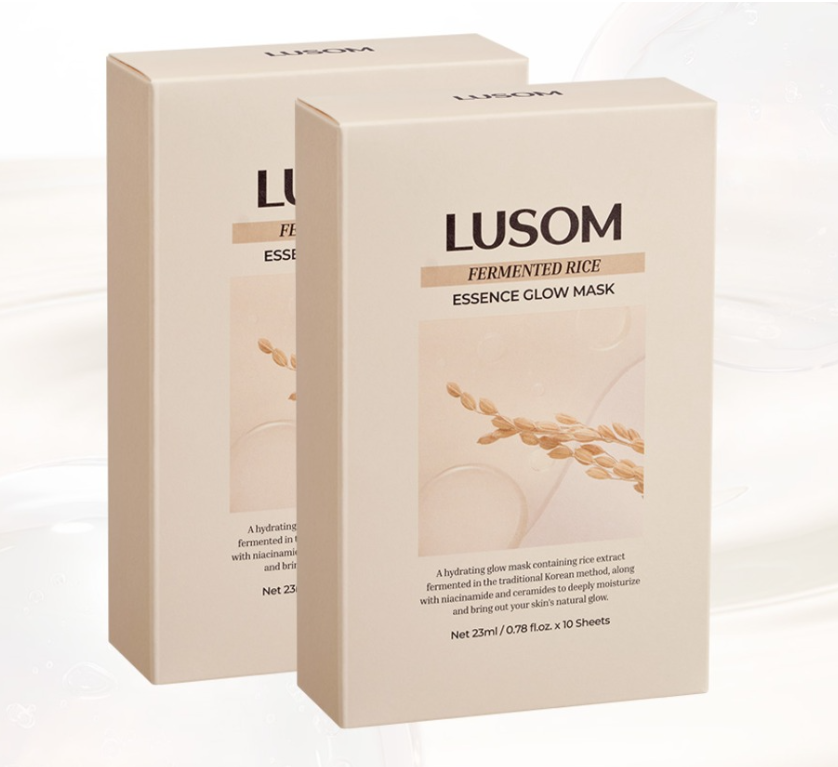
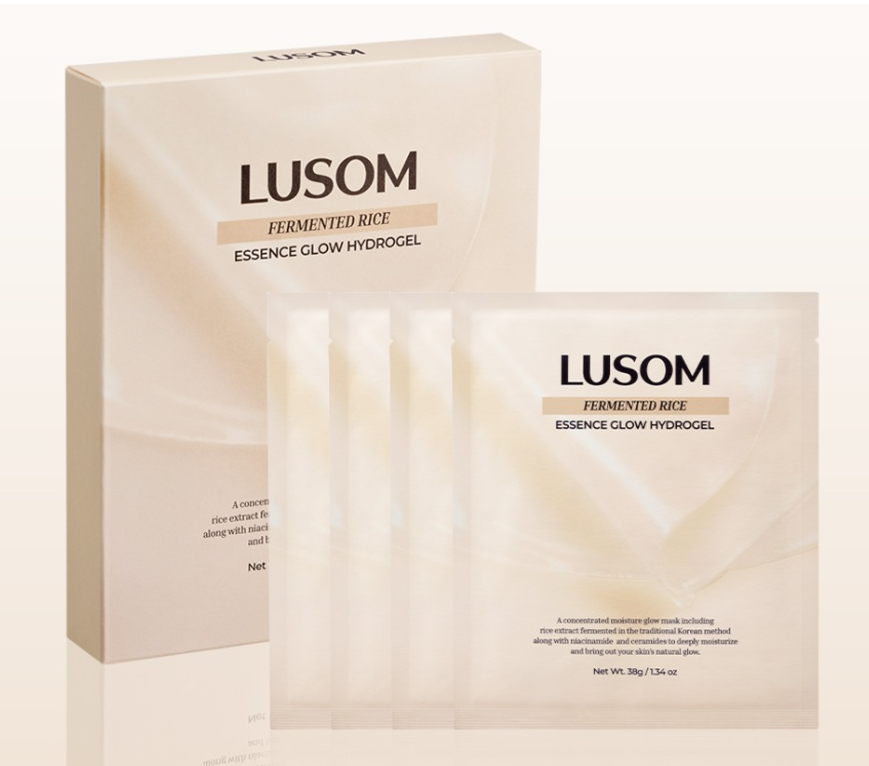
제공 제품 사진/이름/링크 교체 및 브랜드 소개 사진 교체
- 제공 제품 사진을 신규 제품사진으로 교체 (image/product.png)
- 제품명: 루솜 발효미 에센스 글로우 마스크 → 발효미 에센스 글로우 하이드로겔
- 제품 링크를 product_no=42, cate_no=45로 변경
- 브랜드 소개 섹션 이미지를 신규 얼굴 사진으로 교체 (image/face.png)

diff --git a/b.html b/b.html
@@ -803,7 +803,7 @@
     비움-채움-회복은 한 번에 끝나는 과정이 아닌 지속적인 순환입니다.<br>자연이 반복되는 순환 속에서 회복하듯,<br>루솜은 피부의 건강한 선순환을 존중하며 지속 가능한 아름다움을 약속합니다.
   </p>
   <div class="brand-img-wrap">
-    <img src="image/product.png" alt="Lusom 브랜드">
+    <img src="image/face.png" alt="Lusom 브랜드">
   </div>
   <div class="about-grid">
     <div class="about-item">
@@ -853,9 +853,9 @@
   <!-- 제공 제품 -->
   <div style="font-size:12px;font-weight:700;color:var(--text-mid);margin-bottom:10px;letter-spacing:0.05em;">제공 제품</div>
   <div class="product-box">
-    <img src="image/product.png" alt="루솜 발효미 에센스 글로우 마스크" class="product-photo">
-    <div class="product-name">루솜 발효미 에센스 글로우 마스크</div>
-    <a href="https://lusom.kr/product/detail.html?product_no=43&cate_no=82&display_group=1" target="_blank" class="product-link-btn">제품 상세 보기 →</a>
+    <img src="image/product.png" alt="발효미 에센스 글로우 하이드로겔" class="product-photo">
+    <div class="product-name">발효미 에센스 글로우 하이드로겔</div>
+    <a href="https://lusom.kr/product/detail.html?product_no=42&cate_no=45&display_group=1" target="_blank" class="product-link-btn">제품 상세 보기 →</a>
   </div>
 </div>
 

diff --git a/c.html b/c.html
@@ -803,7 +803,7 @@
     비움-채움-회복은 한 번에 끝나는 과정이 아닌 지속적인 순환입니다.<br>자연이 반복되는 순환 속에서 회복하듯,<br>루솜은 피부의 건강한 선순환을 존중하며 지속 가능한 아름다움을 약속합니다.
   </p>
   <div class="brand-img-wrap">
-    <img src="image/product.png" alt="Lusom 브랜드">
+    <img src="image/face.png" alt="Lusom 브랜드">
   </div>
   <div class="about-grid">
     <div class="about-item">
@@ -853,9 +853,9 @@
   <!-- 제공 제품 -->
   <div style="font-size:12px;font-weight:700;color:var(--text-mid);margin-bottom:10px;letter-spacing:0.05em;">제공 제품</div>
   <div class="product-box">
-    <img src="image/product.png" alt="루솜 발효미 에센스 글로우 마스크" class="product-photo">
-    <div class="product-name">루솜 발효미 에센스 글로우 마스크</div>
-    <a href="https://lusom.kr/product/detail.html?product_no=43&cate_no=82&display_group=1" target="_blank" class="product-link-btn">제품 상세 보기 →</a>
+    <img src="image/product.png" alt="발효미 에센스 글로우 하이드로겔" class="product-photo">
+    <div class="product-name">발효미 에센스 글로우 하이드로겔</div>
+    <a href="https://lusom.kr/product/detail.html?product_no=42&cate_no=45&display_group=1" target="_blank" class="product-link-btn">제품 상세 보기 →</a>
   </div>
 </div>
 

diff --git a/d.html b/d.html
@@ -803,7 +803,7 @@
     비움-채움-회복은 한 번에 끝나는 과정이 아닌 지속적인 순환입니다.<br>자연이 반복되는 순환 속에서 회복하듯,<br>루솜은 피부의 건강한 선순환을 존중하며 지속 가능한 아름다움을 약속합니다.
   </p>
   <div class="brand-img-wrap">
-    <img src="image/product.png" alt="Lusom 브랜드">
+    <img src="image/face.png" alt="Lusom 브랜드">
   </div>
   <div class="about-grid">
     <div class="about-item">
@@ -853,9 +853,9 @@
   <!-- 제공 제품 -->
   <div style="font-size:12px;font-weight:700;color:var(--text-mid);margin-bottom:10px;letter-spacing:0.05em;">제공 제품</div>
   <div class="product-box">
-    <img src="image/product.png" alt="루솜 발효미 에센스 글로우 마스크" class="product-photo">
-    <div class="product-name">루솜 발효미 에센스 글로우 마스크</div>
-    <a href="https://lusom.kr/product/detail.html?product_no=43&cate_no=82&display_group=1" target="_blank" class="product-link-btn">제품 상세 보기 →</a>
+    <img src="image/product.png" alt="발효미 에센스 글로우 하이드로겔" class="product-photo">
+    <div class="product-name">발효미 에센스 글로우 하이드로겔</div>
+    <a href="https://lusom.kr/product/detail.html?product_no=42&cate_no=45&display_group=1" target="_blank" class="product-link-btn">제품 상세 보기 →</a>
   </div>
 </div>
 

diff --git a/e.html b/e.html
@@ -803,7 +803,7 @@
     비움-채움-회복은 한 번에 끝나는 과정이 아닌 지속적인 순환입니다.<br>자연이 반복되는 순환 속에서 회복하듯,<br>루솜은 피부의 건강한 선순환을 존중하며 지속 가능한 아름다움을 약속합니다.
   </p>
   <div class="brand-img-wrap">
-    <img src="image/product.png" alt="Lusom 브랜드">
+    <img src="image/face.png" alt="Lusom 브랜드">
   </div>
   <div class="about-grid">
     <div class="about-item">
@@ -853,9 +853,9 @@
   <!-- 제공 제품 -->
   <div style="font-size:12px;font-weight:700;color:var(--text-mid);margin-bottom:10px;letter-spacing:0.05em;">제공 제품</div>
   <div class="product-box">
-    <img src="image/product.png" alt="루솜 발효미 에센스 글로우 마스크" class="product-photo">
-    <div class="product-name">루솜 발효미 에센스 글로우 마스크</div>
-    <a href="https://lusom.kr/product/detail.html?product_no=43&cate_no=82&display_group=1" target="_blank" class="product-link-btn">제품 상세 보기 →</a>
+    <img src="image/product.png" alt="발효미 에센스 글로우 하이드로겔" class="product-photo">
+    <div class="product-name">발효미 에센스 글로우 하이드로겔</div>
+    <a href="https://lusom.kr/product/detail.html?product_no=42&cate_no=45&display_group=1" target="_blank" class="product-link-btn">제품 상세 보기 →</a>
   </div>
 </div>
 

diff --git a/f.html b/f.html
@@ -803,7 +803,7 @@
     비움-채움-회복은 한 번에 끝나는 과정이 아닌 지속적인 순환입니다.<br>자연이 반복되는 순환 속에서 회복하듯,<br>루솜은 피부의 건강한 선순환을 존중하며 지속 가능한 아름다움을 약속합니다.
   </p>
   <div class="brand-img-wrap">
-    <img src="image/product.png" alt="Lusom 브랜드">
+    <img src="image/face.png" alt="Lusom 브랜드">
   </div>
   <div class="about-grid">
     <div class="about-item">
@@ -853,9 +853,9 @@
   <!-- 제공 제품 -->
   <div style="font-size:12px;font-weight:700;color:var(--text-mid);margin-bottom:10px;letter-spacing:0.05em;">제공 제품</div>
   <div class="product-box">
-    <img src="image/product.png" alt="루솜 발효미 에센스 글로우 마스크" class="product-photo">
-    <div class="product-name">루솜 발효미 에센스 글로우 마스크</div>
-    <a href="https://lusom.kr/product/detail.html?product_no=43&cate_no=82&display_group=1" target="_blank" class="product-link-btn">제품 상세 보기 →</a>
+    <img src="image/product.png" alt="발효미 에센스 글로우 하이드로겔" class="product-photo">
+    <div class="product-name">발효미 에센스 글로우 하이드로겔</div>
+    <a href="https://lusom.kr/product/detail.html?product_no=42&cate_no=45&display_group=1" target="_blank" class="product-link-btn">제품 상세 보기 →</a>
   </div>
 </div>
 

diff --git a/guide.html b/guide.html
@@ -674,7 +674,7 @@
     비움-채움-회복은 한 번에 끝나는 과정이 아닌 지속적인 순환입니다.<br>자연이 반복되는 순환 속에서 회복하듯,<br>루솜은 피부의 건강한 선순환을 존중하며 지속 가능한 아름다움을 약속합니다.
   </p>
   <div class="brand-img-wrap">
-    <img src="image/product.png" alt="Lusom 브랜드">
+    <img src="image/face.png" alt="Lusom 브랜드">
   </div>
   <div class="about-grid">
     <div class="about-item">
@@ -724,9 +724,9 @@
   <!-- 제공 제품 -->
   <div style="font-size:12px;font-weight:700;color:var(--text-mid);margin-bottom:10px;letter-spacing:0.05em;">제공 제품</div>
   <div class="product-box">
-    <img src="image/product.png" alt="루솜 발효미 에센스 글로우 마스크" class="product-photo">
-    <div class="product-name">루솜 발효미 에센스 글로우 마스크</div>
-    <a href="https://lusom.kr/product/detail.html?product_no=43&cate_no=82&display_group=1" target="_blank" class="product-link-btn">제품 상세 보기 →</a>
+    <img src="image/product.png" alt="발효미 에센스 글로우 하이드로겔" class="product-photo">
+    <div class="product-name">발효미 에센스 글로우 하이드로겔</div>
+    <a href="https://lusom.kr/product/detail.html?product_no=42&cate_no=45&display_group=1" target="_blank" class="product-link-btn">제품 상세 보기 →</a>
   </div>
 </div>
 

diff --git a/index.html b/index.html
@@ -803,7 +803,7 @@
     비움-채움-회복은 한 번에 끝나는 과정이 아닌 지속적인 순환입니다.<br>자연이 반복되는 순환 속에서 회복하듯,<br>루솜은 피부의 건강한 선순환을 존중하며 지속 가능한 아름다움을 약속합니다.
   </p>
   <div class="brand-img-wrap">
-    <img src="image/product.png" alt="Lusom 브랜드">
+    <img src="image/face.png" alt="Lusom 브랜드">
   </div>
   <div class="about-grid">
     <div class="about-item">
@@ -853,9 +853,9 @@
   <!-- 제공 제품 -->
   <div style="font-size:12px;font-weight:700;color:var(--text-mid);margin-bottom:10px;letter-spacing:0.05em;">제공 제품</div>
   <div class="product-box">
-    <img src="image/product.png" alt="루솜 발효미 에센스 글로우 마스크" class="product-photo">
-    <div class="product-name">루솜 발효미 에센스 글로우 마스크</div>
-    <a href="https://lusom.kr/product/detail.html?product_no=43&cate_no=82&display_group=1" target="_blank" class="product-link-btn">제품 상세 보기 →</a>
+    <img src="image/product.png" alt="발효미 에센스 글로우 하이드로겔" class="product-photo">
+    <div class="product-name">발효미 에센스 글로우 하이드로겔</div>
+    <a href="https://lusom.kr/product/detail.html?product_no=42&cate_no=45&display_group=1" target="_blank" class="product-link-btn">제품 상세 보기 →</a>
   </div>
 </div>
 
